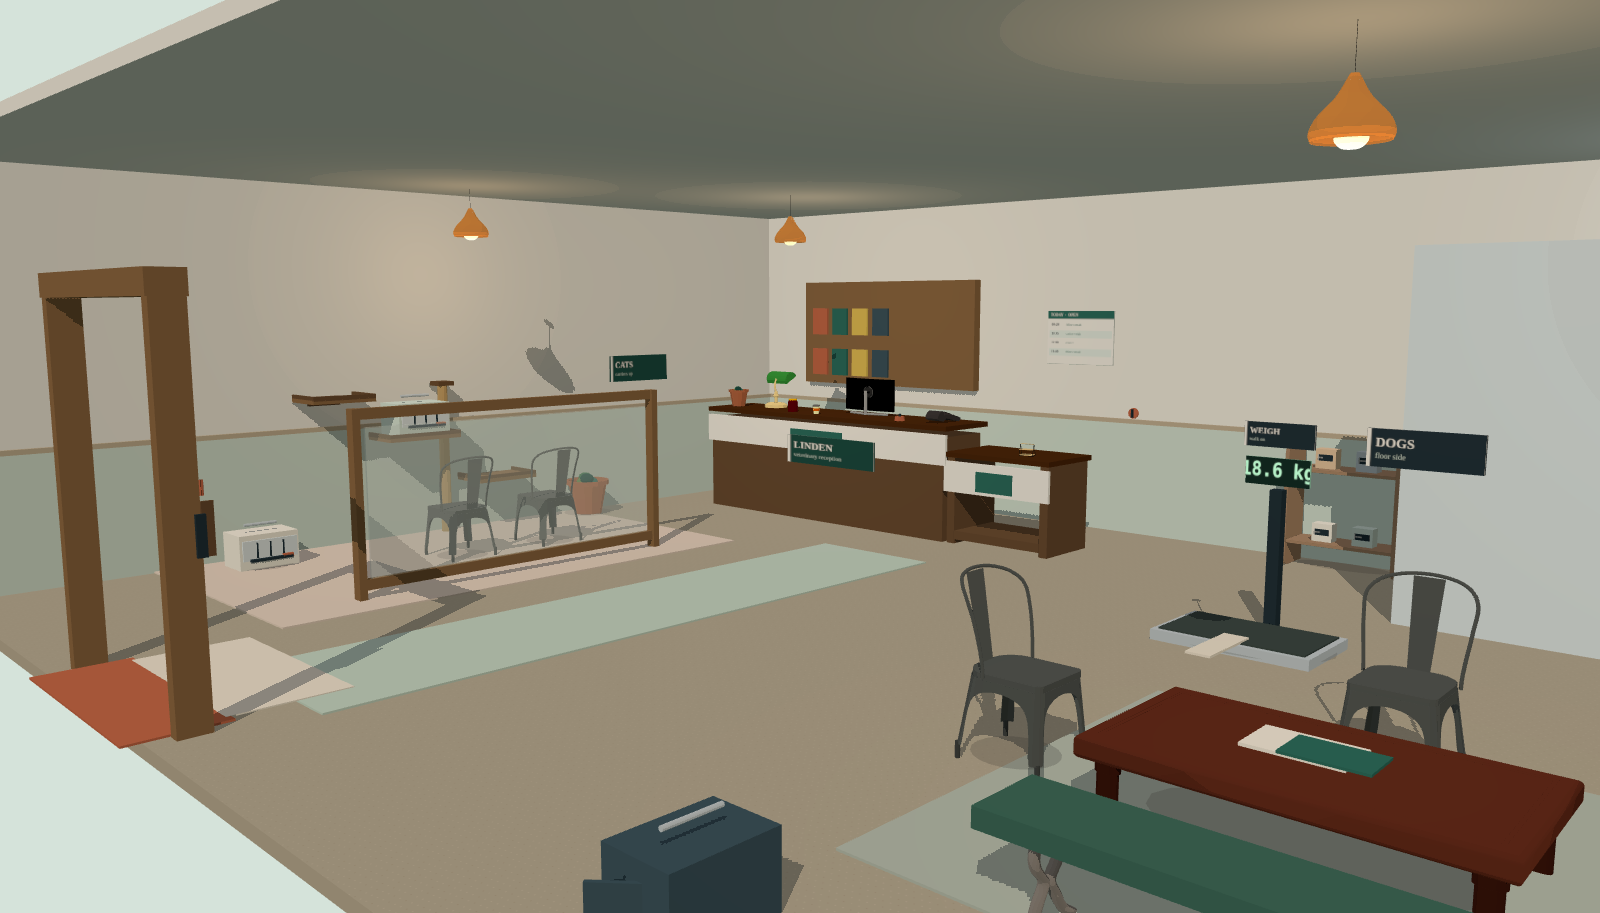
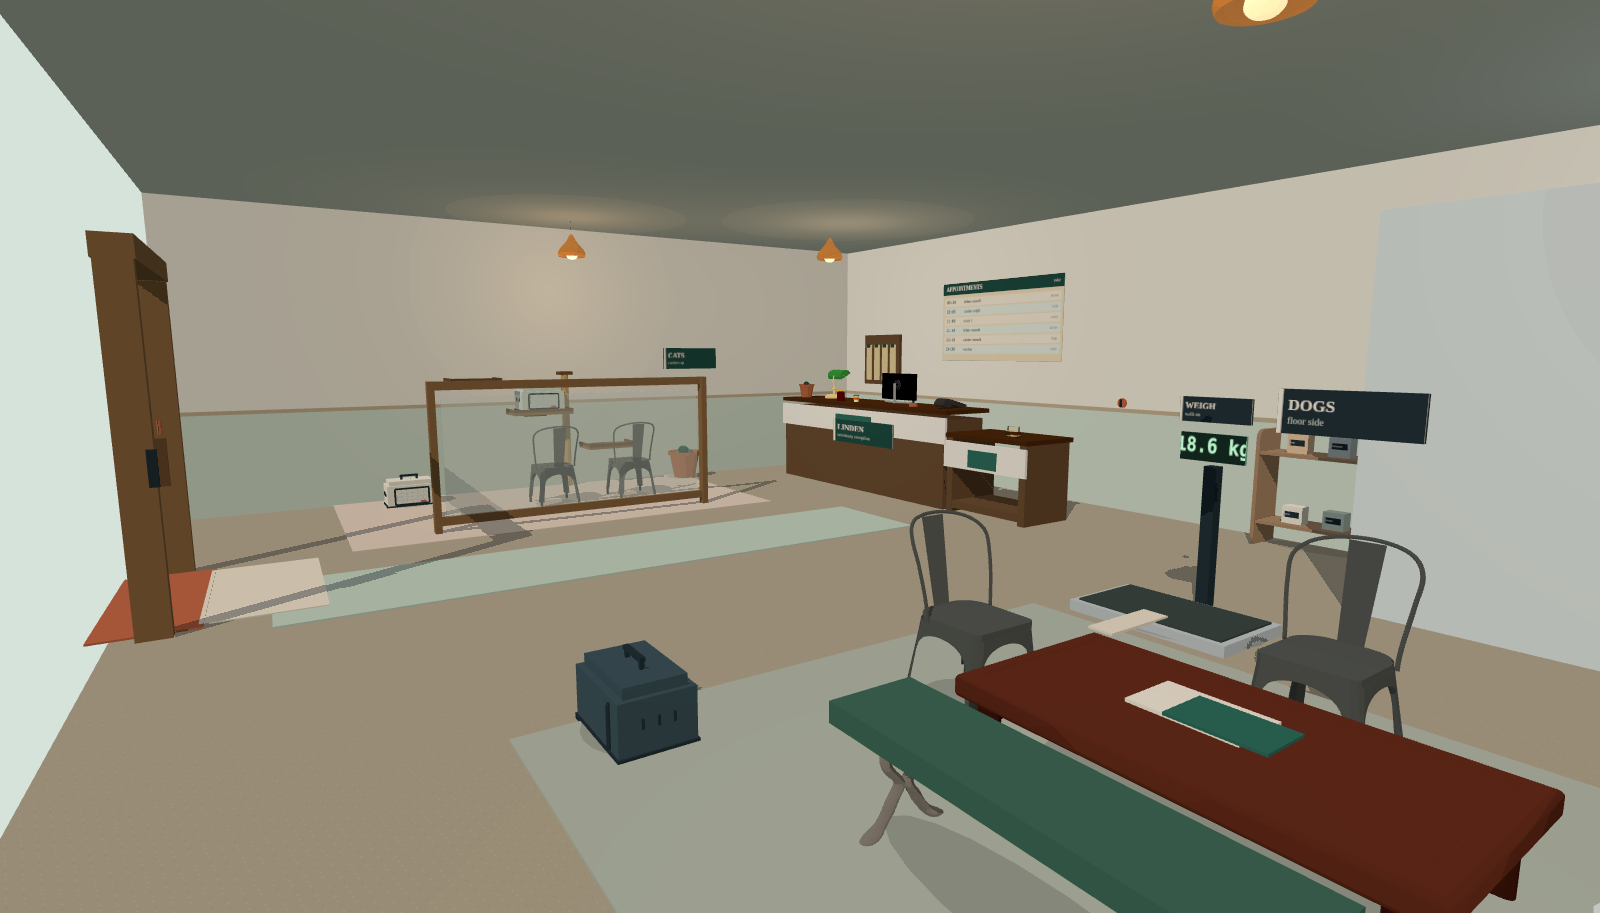
Tighten the Linden reception after the screenshot review.
The establishing views take in the desk, cat alcove, and dog waiting. Plaster no longer picks up the jagged alcove shadow, the perch carrier has a grate and handle, and the appointment board is a day list.

diff --git a/experiments/indoor30-20261113/vet-clinic/clinic.js b/experiments/indoor30-20261113/vet-clinic/clinic.js
@@ -77,32 +77,44 @@ function signTex(title, sub, bg, fg) {
 
 function boardTex() {
   return canvasTex('board', (g, w, h) => {
-    g.fillStyle = '#f7f4ee';
+    g.fillStyle = '#efe2c8';
     g.fillRect(0, 0, w, h);
-    g.fillStyle = '#2f6f62';
-    g.fillRect(0, 0, w, 70);
+    g.fillStyle = '#1f4d44';
+    g.fillRect(0, 0, w, 96);
     g.fillStyle = '#f7f4ee';
-    g.font = '700 36px Georgia, serif';
+    g.font = '700 52px Georgia, serif';
     g.textAlign = 'left';
-    g.fillText('TODAY  ·  OPEN', 24, 46);
+    g.textBaseline = 'middle';
+    g.fillText('APPOINTMENTS', 36, 50);
+    g.font = '500 28px Georgia, serif';
+    g.textAlign = 'right';
+    g.fillText('today', w - 36, 50);
+    g.textAlign = 'left';
     const rows = [
-      ['09:20', 'feline consult'],
-      ['10:05', 'canine weigh'],
-      ['11:00', 'exam 1'],
-      ['11:40', 'feline consult'],
+      ['09:20', 'feline consult', 'alcove'],
+      ['10:05', 'canine weigh', 'scale'],
+      ['11:00', 'exam 1', 'exam'],
+      ['11:40', 'feline consult', 'alcove'],
+      ['13:10', 'canine consult', 'dogs'],
+      ['14:30', 'vaccine', 'exam'],
     ];
     rows.forEach((row, i) => {
-      const y = 120 + i * 78;
-      g.fillStyle = i % 2 ? '#e7f0ea' : '#f7f4ee';
-      g.fillRect(16, y - 28, w - 32, 64);
+      const y = 156 + i * 78;
+      g.fillStyle = i % 2 ? '#e7f0ea' : '#f6efe2';
+      g.fillRect(22, y - 32, w - 44, 68);
+      g.fillStyle = '#1f4d44';
+      g.font = '700 36px ui-monospace, monospace';
+      g.fillText(row[0], 44, y + 2);
       g.fillStyle = '#24343c';
-      g.font = '600 32px Georgia, serif';
-      g.fillText(row[0], 36, y + 8);
-      g.font = '500 28px Georgia, serif';
+      g.font = '600 34px Georgia, serif';
+      g.fillText(row[1], 250, y + 2);
       g.fillStyle = '#2f6f62';
-      g.fillText(row[1], 180, y + 8);
+      g.font = '500 28px Georgia, serif';
+      g.textAlign = 'right';
+      g.fillText(row[2], w - 48, y + 2);
+      g.textAlign = 'left';
     });
-  }, 640, 460);
+  }, 1280, 640);
 }
 
 function digitTex() {
@@ -176,19 +188,20 @@ function makeShell(layout) {
   const wall = mat(S.wall);
   const wain = mat(S.wainscot);
   const rail = mat(S.rail);
-  addBox(g, room.width, H, 0.14, wall, 0, H / 2, -hd + 0.07, { noCast: true, name: 'back-wall' });
-  addBox(g, 0.14, H, room.depth, wall, -hw + 0.07, H / 2, 0, { noCast: true, name: 'left-wall' });
-  addBox(g, room.width - 0.14, 1.05, 0.02, wain, 0.07, 0.525, -hd + 0.15, { noCast: true });
-  addBox(g, 0.02, 1.05, room.depth - 0.14, wain, -hw + 0.16, 0.525, 0.07, { noCast: true });
-  addBox(g, room.width - 0.14, 0.04, 0.04, rail, 0.07, 1.07, -hd + 0.16, { noCast: true });
-  addBox(g, 0.04, 0.04, room.depth - 0.14, rail, -hw + 0.18, 1.07, 0.07, { noCast: true });
-  addBox(g, room.width, 0.08, room.depth, mat(S.ceiling), 0, H - 0.04, 0, { noCast: true, name: 'ceiling' });
+  const plaster = { noCast: true, noReceive: true };
+  addBox(g, room.width, H, 0.14, wall, 0, H / 2, -hd + 0.07, { ...plaster, name: 'back-wall' });
+  addBox(g, 0.14, H, room.depth, wall, -hw + 0.07, H / 2, 0, { ...plaster, name: 'left-wall' });
+  addBox(g, room.width - 0.14, 1.05, 0.02, wain, 0.07, 0.525, -hd + 0.15, plaster);
+  addBox(g, 0.02, 1.05, room.depth - 0.14, wain, -hw + 0.16, 0.525, 0.07, plaster);
+  addBox(g, room.width - 0.14, 0.04, 0.04, rail, 0.07, 1.07, -hd + 0.16, plaster);
+  addBox(g, 0.04, 0.04, room.depth - 0.14, rail, -hw + 0.18, 1.07, 0.07, plaster);
+  addBox(g, room.width, 0.08, room.depth, mat(S.ceiling), 0, H - 0.04, 0, { ...plaster, name: 'ceiling' });
 
   const b = layout.build;
   const runner = mat(S.runner);
   addBox(g, 1.15, 0.012, 5.2, runner, b.portal.cx + 0.45, 0.008, 0.9, { noCast: true, name: 'runner' });
   addBox(g, 2.55, 0.012, 4.15, mat(S.catFloor), -4.25, 0.008, 0.85, { noCast: true, name: 'cat-floor' });
-  addBox(g, 3.3, 0.012, 2.7, mat(S.dogMat), 3.55, 0.01, 1.45, { noCast: true, name: 'dog-mat' });
+  addBox(g, 4.1, 0.012, 3.4, mat(S.dogMat), 3.2, 0.01, 0.95, { noCast: true, noReceive: true, name: 'dog-mat' });
 
   const portal = b.portal;
   const jambW = 0.08;
@@ -208,7 +221,7 @@ function makeShell(layout) {
   addBox(g, segL, 2.55, 0.1, examWall, exam.wallX0 + segL / 2, 1.275, exam.wallZ, { name: 'exam-wall-l' });
   addBox(g, segR, 2.55, 0.1, examWall, exam.doorX1 + segR / 2, 1.275, exam.wallZ, { name: 'exam-wall-r' });
   addBox(g, exam.doorX1 - exam.doorX0, 0.18, 0.1, oak, (exam.doorX0 + exam.doorX1) / 2, 2.46, exam.wallZ);
-  addBox(g, 2.9, 2.4, 0.08, examWall, 4.15, 1.2, -hd + 0.12, { noCast: true, name: 'exam-back' });
+  addBox(g, 2.9, 2.4, 0.08, examWall, 4.15, 1.2, -hd + 0.12, { noCast: true, noReceive: true, name: 'exam-back' });
 
   return g;
 }
@@ -230,6 +243,19 @@ function deskBlock(g, S, spec, topMat, openKnee) {
   addBox(g, Math.min(0.7, w * 0.35), 0.18, 0.012, mat(S.sage), cx, h - 0.24, cz + d / 2 + 0.008);
 }
 
+function grateDoor(parent, S, w, h, x, y, z) {
+  addBox(parent, w, 0.016, 0.016, mat(S.navy), x, y + h / 2, z);
+  addBox(parent, w, 0.016, 0.016, mat(S.navy), x, y - h / 2, z);
+  addBox(parent, 0.016, h, 0.016, mat(S.navy), x - w / 2, y, z);
+  addBox(parent, 0.016, h, 0.016, mat(S.navy), x + w / 2, y, z);
+  for (let i = -2; i <= 2; i++) {
+    addBox(parent, 0.007, h * 0.86, 0.008, mat('#d5dee4'), x + i * w * 0.16, y, z + 0.008);
+  }
+  for (let j = -1; j <= 1; j++) {
+    addBox(parent, w * 0.86, 0.007, 0.008, mat('#d5dee4'), x, y + j * h * 0.22, z + 0.008);
+  }
+}
+
 function carrierMesh(g, S, spec) {
   const colors = { carrier_perch: S.carrierSage, carrier_cat_floor: S.carrierCream, carrier_dog: S.carrierSlate };
   const body = colors[spec.id] || S.carrierCream;
@@ -238,17 +264,29 @@ function carrierMesh(g, S, spec) {
   grp.position.set(spec.x, spec.y, spec.z);
   grp.rotation.y = spec.rot || 0;
   const { w, h, d } = spec;
-  addBox(grp, w, h, d, mat(body), 0, h / 2, 0);
-  addBox(grp, w * 0.92, h * 0.55, 0.02, mat('#dfe7ea'), 0, h * 0.58, d / 2 + 0.01, { name: 'vent-panel' });
-  for (let i = -1; i <= 1; i++) {
-    addBox(grp, 0.012, h * 0.42, 0.012, mat(S.navy), i * w * 0.22, h * 0.58, d / 2 + 0.02);
-  }
-  addBox(grp, w * 0.7, 0.02, 0.08, mat(S.navy), 0, h * 0.32, d / 2 + 0.02);
+  addBox(grp, w * 1.04, 0.028, d * 1.04, mat(S.navy), 0, 0.014, 0, { name: 'carrier-base' });
+  addBox(grp, w, h * 0.72, d, mat(body), 0, 0.028 + h * 0.36, 0, { name: 'carrier-body' });
+  addBox(grp, w * 0.9, h * 0.16, d * 0.82, mat(body), 0, 0.028 + h * 0.8, 0, { name: 'carrier-lid' });
+  addBox(grp, w * 0.62, h * 0.55, 0.008, mat('#1c2826'), 0, h * 0.42, d / 2 - 0.006, { name: 'door-void' });
   if (spec.open) {
-    addBox(grp, 0.02, h * 0.72, d * 0.7, mat(body), w / 2 + 0.04, h * 0.4, 0.02, { rotY: 0.7, name: 'door' });
+    const door = new THREE.Group();
+    door.name = 'door';
+    door.position.set(w * 0.34, 0, d / 2);
+    door.rotation.y = -1.05;
+    grateDoor(door, S, w * 0.62, h * 0.58, -w * 0.31, h * 0.42, 0.01);
+    grp.add(door);
+  } else {
+    grateDoor(grp, S, w * 0.7, h * 0.58, 0, h * 0.42, d / 2 + 0.01);
+    addBox(grp, 0.055, 0.022, 0.028, mat(S.clay), w * 0.22, h * 0.2, d / 2 + 0.02, { name: 'latch' });
   }
-  addCyl(grp, 0.012, 0.012, w * 0.55, mat(S.steel), 0, h + 0.06, 0, 8, { rotZ: Math.PI / 2, name: 'handle' });
-  addBox(grp, 0.08, 0.03, 0.05, mat(S.clay), w * 0.28, h * 0.35, d / 2 + 0.03, { name: 'latch' });
+  addBox(grp, 0.02, 0.085, 0.02, mat(S.navy), -w * 0.16, h * 0.98, 0, { name: 'handle-post' });
+  addBox(grp, 0.02, 0.085, 0.02, mat(S.navy), w * 0.16, h * 0.98, 0, { name: 'handle-post' });
+  addBox(grp, w * 0.38, 0.02, 0.026, mat(S.navy), 0, h * 0.98 + 0.04, 0, { name: 'handle' });
+  for (const side of [-1, 1]) {
+    for (let k = -1; k <= 1; k++) {
+      addBox(grp, 0.01, 0.045, 0.012, mat(S.navy), side * (w / 2 + 0.004), h * 0.48, k * d * 0.2);
+    }
+  }
   g.add(grp);
 }
 
@@ -273,15 +311,15 @@ function makeProcedural(layout) {
   const word = signTex('LINDEN', 'veterinary reception', S.sageDeep, '#f7f4ee');
   addBox(g, 1.15, 0.28, 0.02, mat('#ffffff', { map: word }), b.desk.cx + 0.2, 0.72, b.desk.cz + b.desk.d / 2 + 0.02, { noCast: true });
 
-  addBox(g, 2.4, 1.15, 0.12, mat(S.oak), -3.55, 1.85, -4.12);
-  for (let i = 0; i < 8; i++) {
-    const col = ['#c46a4a', '#2f6f62', '#e2c15a', '#3e5560'][i % 4];
-    const colx = -4.5 + (i % 4) * 0.3;
-    const rowy = i < 4 ? 1.52 : 1.98;
-    addBox(g, 0.22, 0.3, 0.035, mat(col), colx, rowy, -4.05);
+  addBox(g, 2.08, 1.14, 0.05, mat('#6b4e34'), -2.35, 2.08, -4.2, { noCast: true, noReceive: true, name: 'board-frame' });
+  addBox(g, 1.94, 1.0, 0.02, mat('#ffffff', { map: boardTex() }), -2.35, 2.08, -4.16, { noCast: true, noReceive: true, name: 'appointments' });
+  const rackX = -4.55;
+  addBox(g, 0.78, 0.72, 0.1, mat(S.oakDeep), rackX, 1.58, -4.16, { noCast: true, noReceive: true, name: 'chart-rack' });
+  for (let i = 0; i < 4; i++) {
+    const x = rackX - 0.27 + i * 0.18;
+    addBox(g, 0.12, 0.52, 0.016, mat('#e4d2a4'), x, 1.54, -4.1, { noCast: true, noReceive: true });
+    addBox(g, 0.07, 0.045, 0.01, mat(S.sageDeep), x, 1.78, -4.085, { noCast: true, noReceive: true });
   }
-  const board = boardTex();
-  addBox(g, 0.72, 0.52, 0.02, mat('#ffffff', { map: board }), -1.15, 1.85, -4.14, { noCast: true });
 
   const screen = b.screen;
   const sz = (screen.z1 - screen.z0) / 2;

diff --git a/experiments/indoor30-20261113/vet-clinic/scene_lib.js b/experiments/indoor30-20261113/vet-clinic/scene_lib.js
@@ -314,6 +314,10 @@ export async function boot(opts) {
     const p = presets[camKey];
     camera.position.set(...p.position);
     controls.target.set(...p.target);
+    if (p.fov) {
+      camera.fov = p.fov;
+      camera.updateProjectionMatrix();
+    }
     controls.update();
   }
 

diff --git a/experiments/indoor30-20261113/vet-clinic/refs/GAP.md b/experiments/indoor30-20261113/vet-clinic/refs/GAP.md
@@ -17,12 +17,16 @@ Closed in this scene:
 - One carrier sits on the middle perch. Two sit on the floor, cat side and dog side. The dog carrier door is open. No animals.
 - Walk-on platform is 70 mm with a clear approach off the entrance spine. Exam 1 is a glimpse, not a lab.
 - Entrance clear width is 1.58 m, with a flat threshold rather than a step.
-- Floor is linoleum, not a wood photo. Desk grain is a fine repeat. Walls do not cast shadow maps. Contact discs sit under the floor furniture.
+- Floor is linoleum, not a wood photo. Desk grain is a fine repeat. Plaster walls and the ceiling neither cast nor receive shadow maps, so the alcove edge stays even. Furniture and the floor still take the hard key shadow. Contact discs sit under the floor furniture.
+- The appointment board is a six-row day list (time, species visit, room). The chart rack beside it is manila folders, not a color grid.
+- Waiting chairs stay the shared metal cafe chairs. The other shared seats are a dining chair, a theatre chair, a train seat, and a lounge sofa. None of those is a clinic waiting chair, so no extra cafe furniture was added. The sage benches are the museum bench with the vinyl recolor.
 
 Still open:
 
-- Carriers, the walk-on scale, and the exam table are procedural. A CC-BY carrier or floor scale is not in the baked set.
+- Carriers, the walk-on scale, and the exam table are procedural. The perch carrier now has a grated door and a raised handle, but it is still local geometry. A CC-BY carrier or floor scale is not in the baked set.
+- The front and right of the room stay open so the cutaway can be seen. The corner frame still shows a narrow band of that opening beside the entrance. The ceiling itself is closed.
+- The center aisle is the 1.2 m spine and stays clear. The dog carrier, the second sage bench, and the low table sit beside it.
 - The wall shelf is a generic two-tier shelf. Product boxes in front of it are local.
 - The banker's lamp is the library bake. Its green shade is a task lamp, not a clinic brand.
 - Contact shadows are discs, not bent-normal AO.
-- The appointment board lists species slots, not a real day sheet.
+- The appointment board is a painted day list, not a live schedule.
